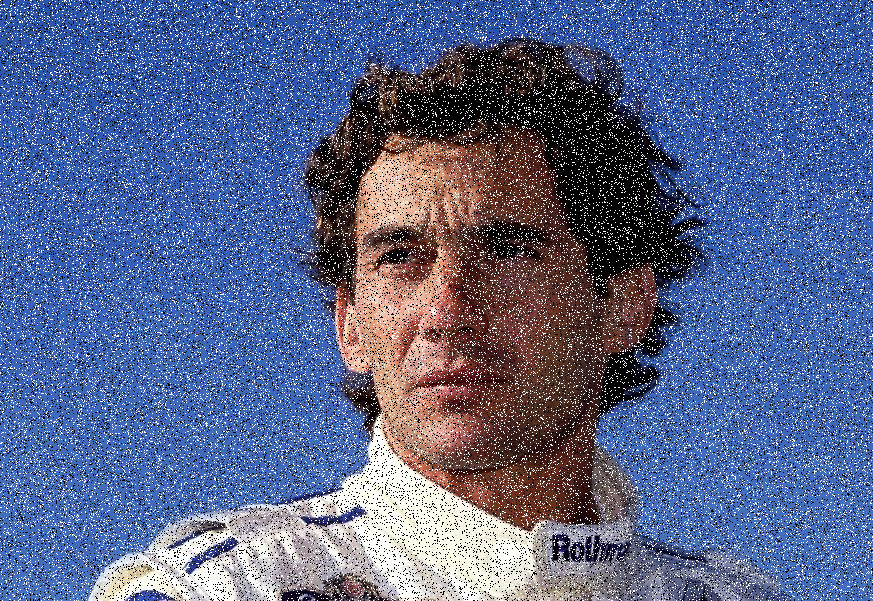
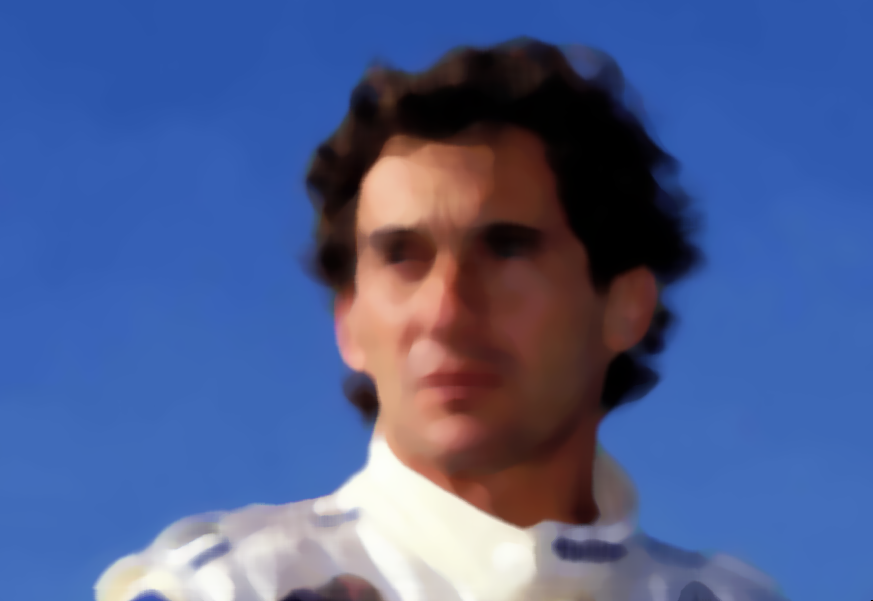
Median filter on Threads

Changed region(s): [[0.0, 0.0, 1.0, 1.0]]

diff --git a/src/pl/edu/misztal/imageprocessing/plugins/statistical/MedianOnThreads.java b/src/pl/edu/misztal/imageprocessing/plugins/statistical/MedianOnThreads.java
@@ -1,0 +1,114 @@
+package pl.edu.misztal.imageprocessing.plugins.statistical;
+
+import java.util.concurrent.ExecutorService;
+import java.util.concurrent.Executors;
+import java.util.concurrent.TimeUnit;
+import pl.edu.misztal.imageprocessing.image.Image;
+import pl.edu.misztal.imageprocessing.image.plugins.Plugin;
+import pl.edu.misztal.imageprocessing.image.utils.Attributes;
+import pl.edu.misztal.imageprocessing.image.utils.Mask;
+
+/**
+ * Comparison of regular and parallel Median filter with maskSize = 21
+ * Median :          24361 ms
+ * MedianOnThreads :  5356 ms
+ * 
+ * Procesor CPU Intel(R) Core(TM) i7-4700MQ CPU @ 2.40GHz
+ * @author Krzysztof
+ */
+public class MedianOnThreads extends Plugin {
+
+    int maskSize = 3;
+
+    @Override
+    public void process(Image imgIn, Image imgOut, Attributes attrOut, Mask mask) {
+        if (mask != null) {
+            throw new RuntimeException("Not supproted yet");
+        }
+
+        if (getAttribute("size") != null) {
+            maskSize = (Integer) getAttribute("size");
+        } else {
+            setAttribute("size", maskSize);
+        }
+
+        final int width = imgIn.getWidth();
+        final int height = imgIn.getHeight();
+        final int outputPixels[] = new int[width * height];
+
+//~ Begin
+        int n = Runtime.getRuntime().availableProcessors();
+
+        try {
+            ExecutorService pool = Executors.newCachedThreadPool();
+            for (int i = 0; i < n; i++) {
+                int fromY = i * height / n;
+                int toY = (i + 1) * height / n;
+                pool.submit(() -> {
+                    
+//~ End                    
+                    final int red[] = new int[maskSize * maskSize],
+                            green[] = new int[maskSize * maskSize],
+                            blue[] = new int[maskSize * maskSize];
+                    int xMin, xMax, yMin, yMax;
+
+                    int count;
+
+                    /**
+                     * Median Filter operation
+                     */
+                    for (int y = fromY; y < toY; y++) {
+                        for (int x = 0; x < width; x++) {
+                            count = 0;
+                            xMin = x - (maskSize / 2);
+                            xMax = x + (maskSize / 2);
+                            yMin = y - (maskSize / 2);
+                            yMax = y + (maskSize / 2);
+                            for (int r = yMin; r <= yMax; r++) {
+                                for (int c = xMin; c <= xMax; c++) {
+                                    if (r >= 0 && r < height && c >= 0 && c < width) {
+                                        final int argb = imgIn.getRGB(c, r);
+                                        red[count] = (argb >> 16) & 0xff;
+                                        green[count] = (argb >> 8) & 0xff;
+                                        blue[count] = (argb) & 0xFF;
+                                        count++;
+                                    }
+                                }
+                            }
+
+                            /**
+                             * sort red, green, blue array
+                             */
+                            java.util.Arrays.sort(red, 0, count);
+                            java.util.Arrays.sort(green, 0, count);
+                            java.util.Arrays.sort(blue, 0, count);
+
+                            /**
+                             * save median value in outputPixels array
+                             */
+                            final int index = (count % 2 == 0) ? count / 2 - 1 : count / 2;
+                            final int p = (red[index] << 16) | (green[index] << 8) | blue[index];
+                            outputPixels[x + y * width] = p;
+                        }
+                    }
+                });
+
+//~BEgin                
+            }
+            pool.shutdown();
+            pool.awaitTermination(1, TimeUnit.HOURS);
+        } catch (InterruptedException ex) {
+            ex.printStackTrace();
+        }
+//~End        
+        /**
+         * Write the output pixels to the image pixels
+         */
+        for (int y = 0; y < height; y++) {
+            for (int x = 0; x < width; x++) {
+                imgOut.setRGB(x, y, outputPixels[x + y * width]);
+            }
+        }
+    }
+
+}

diff --git a/src/pl/edu/misztal/imageprocessing/plugins/statistical/Median.java b/src/pl/edu/misztal/imageprocessing/plugins/statistical/Median.java
@@ -30,30 +30,38 @@ import pl.edu.misztal.imageprocessing.image.utils.Mask;
  * @author Krzysztof
  */
 public class Median extends Plugin {
+    int maskSize = 3;
 
     @Override
     public void process(Image imgIn, Image imgOut, Attributes attrOut, Mask mask) {
-
-        final int maskSize = 3;
+        if(mask != null){
+            throw new RuntimeException("Not supproted yet");
+        }
+        
+        if(getAttribute("size") != null){
+            maskSize = (Integer) getAttribute("size");
+        }else{
+            setAttribute("size", maskSize);
+        }
+        
         final int width = imgIn.getWidth();
         final int height = imgIn.getHeight();
         final int outputPixels[] = new int[width * height];
 
-        int red[], green[], blue[];
+        int red[] = new int[maskSize * maskSize], 
+                green[] = new int[maskSize * maskSize], 
+                blue[] = new int[maskSize * maskSize];
         int xMin, xMax, yMin, yMax;
-
-        int argb, reD, greeN, bluE;
         
         int count;
 
+        
+        
         /**
          * Median Filter operation
          */
         for (int y = 0; y < height; y++) {
-            for (int x = 0; x < width; x++) {
-                red = new int[maskSize * maskSize];
-                green = new int[maskSize * maskSize];
-                blue = new int[maskSize * maskSize];
+            for (int x = 0; x < width; x++) {                               
                 count = 0;
                 xMin = x - (maskSize / 2);
                 xMax = x + (maskSize / 2);
@@ -62,13 +70,10 @@ public class Median extends Plugin {
                 for (int r = yMin; r <= yMax; r++) {
                     for (int c = xMin; c <= xMax; c++) {
                         if (r >= 0 && r < height && c >= 0 && c < width) {
-                            argb = imgIn.getRGB(c, r);
-                            reD = (argb >> 16) & 0xff;
-                            red[count] = reD;
-                            greeN = (argb >> 8) & 0xff;
-                            green[count] = greeN;
-                            bluE = (argb) & 0xFF;
-                            blue[count] = bluE;
+                            final int argb = imgIn.getRGB(c, r);                            
+                            red[count] = (argb >> 16) & 0xff;
+                            green[count] = (argb >> 8) & 0xff;
+                            blue[count] = (argb) & 0xFF;
                             count++;
                         }
                     }
@@ -77,9 +82,9 @@ public class Median extends Plugin {
                 /**
                  * sort red, green, blue array
                  */
-                java.util.Arrays.sort(red);
-                java.util.Arrays.sort(green);
-                java.util.Arrays.sort(blue);
+                java.util.Arrays.sort(red, 0, count);
+                java.util.Arrays.sort(green, 0, count);
+                java.util.Arrays.sort(blue, 0, count);
 
                 /**
                  * save median value in outputPixels array

diff --git a/src/pl/edu/misztal/imageprocessing/image/executors/gui/StepHandlerExecutor.java b/src/pl/edu/misztal/imageprocessing/image/executors/gui/StepHandlerExecutor.java
@@ -1,8 +1,9 @@
 package pl.edu.misztal.imageprocessing.image.executors.gui;
 
-import pl.edu.misztal.imageprocessing.image.executors.gui.helpers.StepHandlerExecutorGUI;
 import pl.edu.misztal.imageprocessing.image.executors.Executor;
+import pl.edu.misztal.imageprocessing.image.executors.gui.helpers.StepHandlerExecutorGUI;
 import pl.edu.misztal.imageprocessing.image.executors.progressbar.ProcessingProgress;
+import pl.edu.misztal.imageprocessing.plugins.util.TimeExecution;
 
 /**
  *
@@ -20,12 +21,26 @@ public class StepHandlerExecutor extends Executor {
         ProcessingProgress progress = new ProcessingProgress(imageList, plugins.size());
         imageList.setVisible(true);
 
+        TimeExecution te = new TimeExecution();
+        te.startEvent();
         plugins.stream().forEach((p) -> {
+            te.startJob(p.getName());
+            
             p.process(currentImage);
             imageList.addImage(currentImage.copy(), p);
-            progress.increment();            
-        });
+            progress.increment();
 
+//            try {
+//                TimeUnit.SECONDS.sleep(1);
+//            } catch (InterruptedException ex) {
+//                Logger.getLogger(StepHandlerExecutor.class.getName()).log(Level.SEVERE, null, ex);
+//            }
+            
+            te.endJob(true);                     
+        });
+        
+        te.stopEvent();
+        te.printEventExecutionTime();
     }
 
 }

diff --git a/src/pl/edu/misztal/imageprocessing/plugins/util/TimeExecution.java b/src/pl/edu/misztal/imageprocessing/plugins/util/TimeExecution.java
@@ -1,0 +1,49 @@
+package pl.edu.misztal.imageprocessing.plugins.util;
+
+import java.time.Instant;
+import java.time.temporal.ChronoUnit;
+import java.util.HashMap;
+import java.util.LinkedHashMap;
+
+/**
+ *
+ * @author Krzysztof
+ */
+public class TimeExecution {
+
+    Instant startEvent;
+    Instant stopEvent;
+    Instant startJob;
+    Instant stopJob;
+
+    String currentName;
+
+    LinkedHashMap<String, Long> timelist = new LinkedHashMap<>();
+
+    public void startEvent() {
+        startEvent = Instant.now();
+    }
+
+    public void stopEvent() {
+        stopEvent = Instant.now();
+    }
+
+    public void startJob(String name) {
+        currentName = name;
+        startJob = Instant.now();
+    }
+
+    public void endJob(boolean print) {
+        stopJob = Instant.now();
+        final long v = ChronoUnit.MILLIS.between(startJob, stopJob);
+        timelist.put(currentName, v);
+        System.out.println(currentName + " : " + v);
+    }
+
+    public void printEventExecutionTime() {
+        final long v = ChronoUnit.MILLIS.between(startEvent, stopEvent);
+        timelist.put(currentName, v);
+        System.out.println("Total time : " + v);
+    }
+
+}

diff --git a/src/pl/edu/misztal/imageprocessing/test/StepHandlerExecutorWithProgressBarTest.java b/src/pl/edu/misztal/imageprocessing/test/StepHandlerExecutorWithProgressBarTest.java
@@ -7,6 +7,7 @@ import pl.edu.misztal.imageprocessing.plugins.color.Invert;
 import pl.edu.misztal.imageprocessing.image.noise.SaltAndPepper;
 import pl.edu.misztal.imageprocessing.plugins.convolve.Blur;
 import pl.edu.misztal.imageprocessing.plugins.statistical.Median;
+import pl.edu.misztal.imageprocessing.plugins.statistical.MedianOnThreads;
 
 /**
  *
@@ -18,18 +19,22 @@ public class StepHandlerExecutorWithProgressBarTest {
         
         Executor exec = new StepHandlerExecutor(filename);
         
-//        exec.add(new Invert());
-//        exec.add(new Invert());
-//        
-//        exec.add(new Blur(),
-//                "size", 6);
+        exec.add(new Invert());
+        exec.add(new Invert());
+        
+        exec.add(new Blur(),
+                "size", 6);
         
         exec.add(new SaltAndPepper(), 
                 "density", 0.2);
-//        exec.add(new Median());
+//        exec.add(new Median(),
+//                "size", 21);
+        exec.add(new MedianOnThreads(),
+                "size", 21);
         
         exec.execute();
         
         exec.save("./res/out.png");
     }
 }
+
